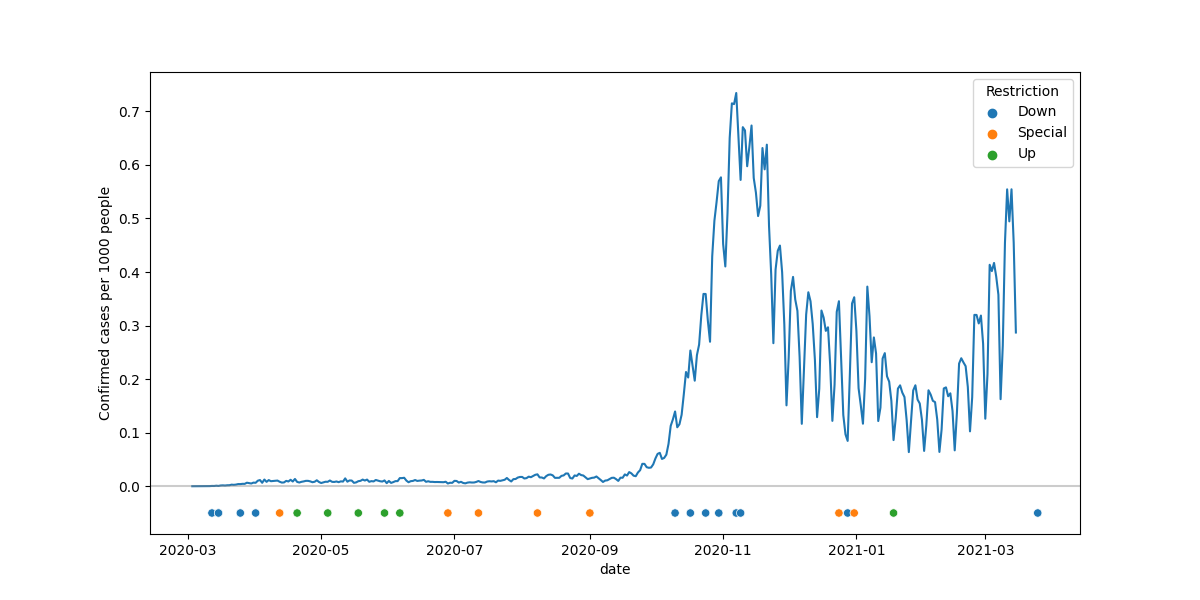
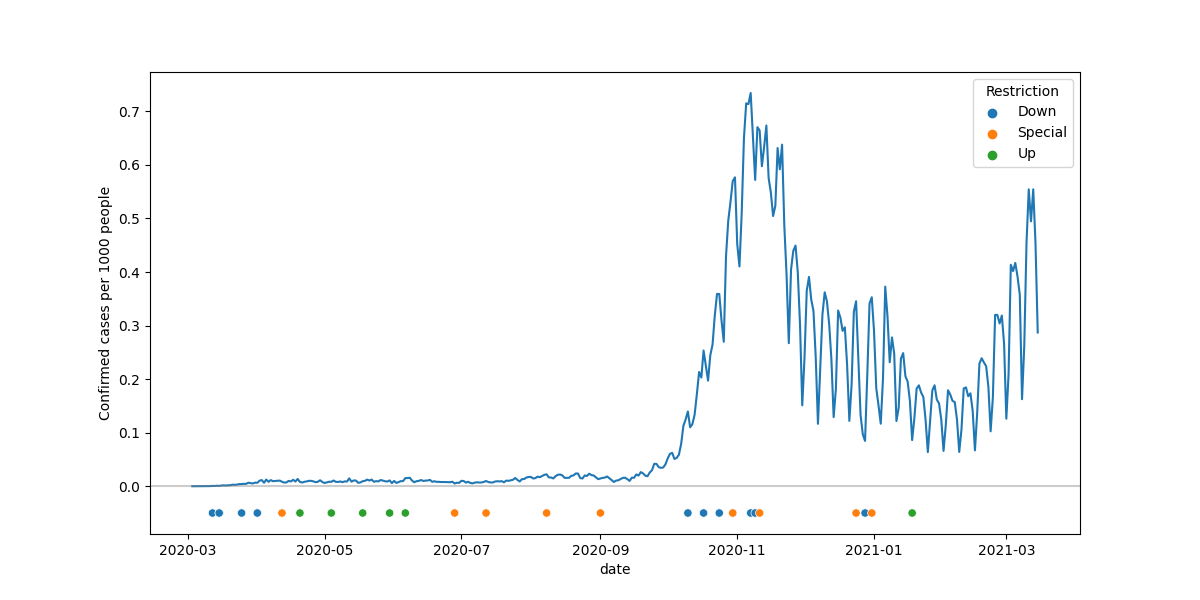
calendar editted

diff --git a/src/calendar.py b/src/calendar.py
@@ -9,21 +9,27 @@ import population
 import posterior
 
 def load_calendar():
-    x = pd.read_csv('data/calendar/restrictions.csv')
+    x = pd.read_csv('data/calendar.csv')
     x['Date'] = x.Date.apply(lambda d: datetime.strptime(d, '%Y-%m-%d'))
     x['Year'] = x.Date.apply(lambda d: int(datetime.strftime(d, '%Y')))
     x['Week'] = x.Date.apply(lambda d: int(datetime.strftime(d, '%W')))
     return x
 
-def plot_confirmed(region):
+def plot_confirmed(region, dates=(datetime(2020,3,1),datetime(2021,3,15)), event=None):
     # load calendar
     cal = load_calendar()
     cal = cal[cal.Country == region]
+    if event is not None:
+        cal = cal[cal.Date == event]
+        cal['Restriction'] = cal['Title']
+    else:
+        cal = cal[(cal.Date >= dates[0]) & (cal.Date <= dates[1])]
     cal['Y'] = -.05
     # load data
-    x = posterior._posterior_data(region, (datetime(2020,3,1),datetime(2021,3,15)), weekly=False)
+    x = posterior._posterior_data(region, dates, weekly=False)
     POP = population.get_population(region)
     x['Confirmed cases per 1000 people'] = x.confirmed / POP * 1e3
+    x = x[(x.date >= dates[0]) & (x.date <= dates[1])]
     
     # plot
     plt.rcParams["figure.figsize"] = (12,6)
@@ -32,11 +38,22 @@ def plot_confirmed(region):
     ax.axhline(0, alpha=.4, color='grey')
     sns.scatterplot(x='Date',y='Y',hue='Restriction',data=cal,ax=ax)
     plt.show()
+    
+    
 
 if __name__ == '__main__':
-    #x = load_calendar()
-    #print(x[x.Country == 'IT'])
-    plot_confirmed('CZ')
-    plot_confirmed('SE')
-    plot_confirmed('IT')
+    # plot timelines
+    #plot_confirmed('CZ')
+    #plot_confirmed('SE')
+    #plot_confirmed('IT')
     plot_confirmed('PL')
+    
+    # plot lockdowns
+    #plot_confirmed('CZ', (datetime(2020,10,10),datetime(2020,11,30)), event=datetime(2020,10,28))
+    #plot_confirmed('CZ', (datetime(2020,12,15),datetime(2021,1,31)), event=datetime(2020,12,27))
+    #plot_confirmed('CZ', (datetime(2021,2,15),datetime(2021,3,31)), event=datetime(2021,2,26))
+    #plot_confirmed('IT', (datetime(2020,3,1),datetime(2020,4,30)), event=datetime(2020,3,9))
+    #plot_confirmed('IT', (datetime(2020,12,15),datetime(2021,1,31)), event=datetime(2020,12,18))
+    #plot_confirmed('PL', (datetime(2020,3,15),datetime(2020,4,30)), event=datetime(2020,3,25))
+    
+
